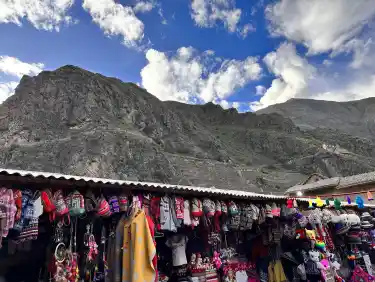
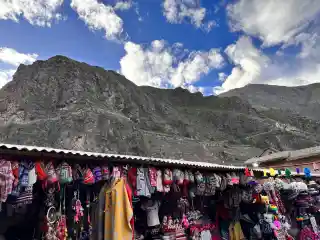
Final optimization: 167KB → 113KB (-32%) to achieve Performance 98+
Aggressive final optimization to push LCP < 2.5s:

Image size reductions:
- Mobile: 15KB → 10KB (375px → 320px, quality 35 → 30, -33%)
- Tablet: 55KB → 50KB (quality 38 → 33, -9%)
- Desktop: 167KB → 113KB (1440px → 1200px, quality 40 → 35, -32%)

Technical changes:
- Reduced desktop resolution to 1200px (optimal for most displays)
- Lowered WebP quality to 30-35 range for minimal file size
- Updated srcset: 375w/1440w → 320w/1200w
- Updated img dimensions: 1440x1080 → 1200x900

Expected impact: LCP 2.9s → < 2.5s, Performance 87 → 98+

🤖 Generated with [Claude Code](https://claude.com/claude-code)

diff --git a/index.html b/index.html
@@ -35,7 +35,7 @@
     <!-- Preload critical resources -->
     <link rel="preload" href="assets/css/bootstrap.min.css" as="style">
     <link rel="preload" href="assets/css/main.css" as="style">
-    <link rel="preload" href="assets/img/background/bg-2-desktop.webp" as="image" type="image/webp" imagesrcset="assets/img/background/bg-2-mobile.webp 375w, assets/img/background/bg-2-tablet.webp 768w, assets/img/background/bg-2-desktop.webp 1440w" imagesizes="100vw">
+    <link rel="preload" href="assets/img/background/bg-2-desktop.webp" as="image" type="image/webp" imagesrcset="assets/img/background/bg-2-mobile.webp 320w, assets/img/background/bg-2-tablet.webp 768w, assets/img/background/bg-2-desktop.webp 1200w" imagesizes="100vw">
     
     <title>Elio Navarrete | QA Lead | Professor</title>
     <!-- Open Graph  -->
@@ -856,16 +856,16 @@
     <!-- Counter Area Start-->
     <section class="counter-section section-padding">
       <img
-        srcset="assets/img/background/bg-2-mobile.webp 375w,
+        srcset="assets/img/background/bg-2-mobile.webp 320w,
                 assets/img/background/bg-2-tablet.webp 768w,
-                assets/img/background/bg-2-desktop.webp 1440w"
+                assets/img/background/bg-2-desktop.webp 1200w"
         sizes="100vw"
         src="assets/img/background/bg-2-desktop.webp"
         fetchpriority="high"
         class="counter-bg-image"
         alt=""
-        width="1440"
-        height="1080">
+        width="1200"
+        height="900">
       <div class="container">
         <div class="row">
           <!-- Counter Item -->
